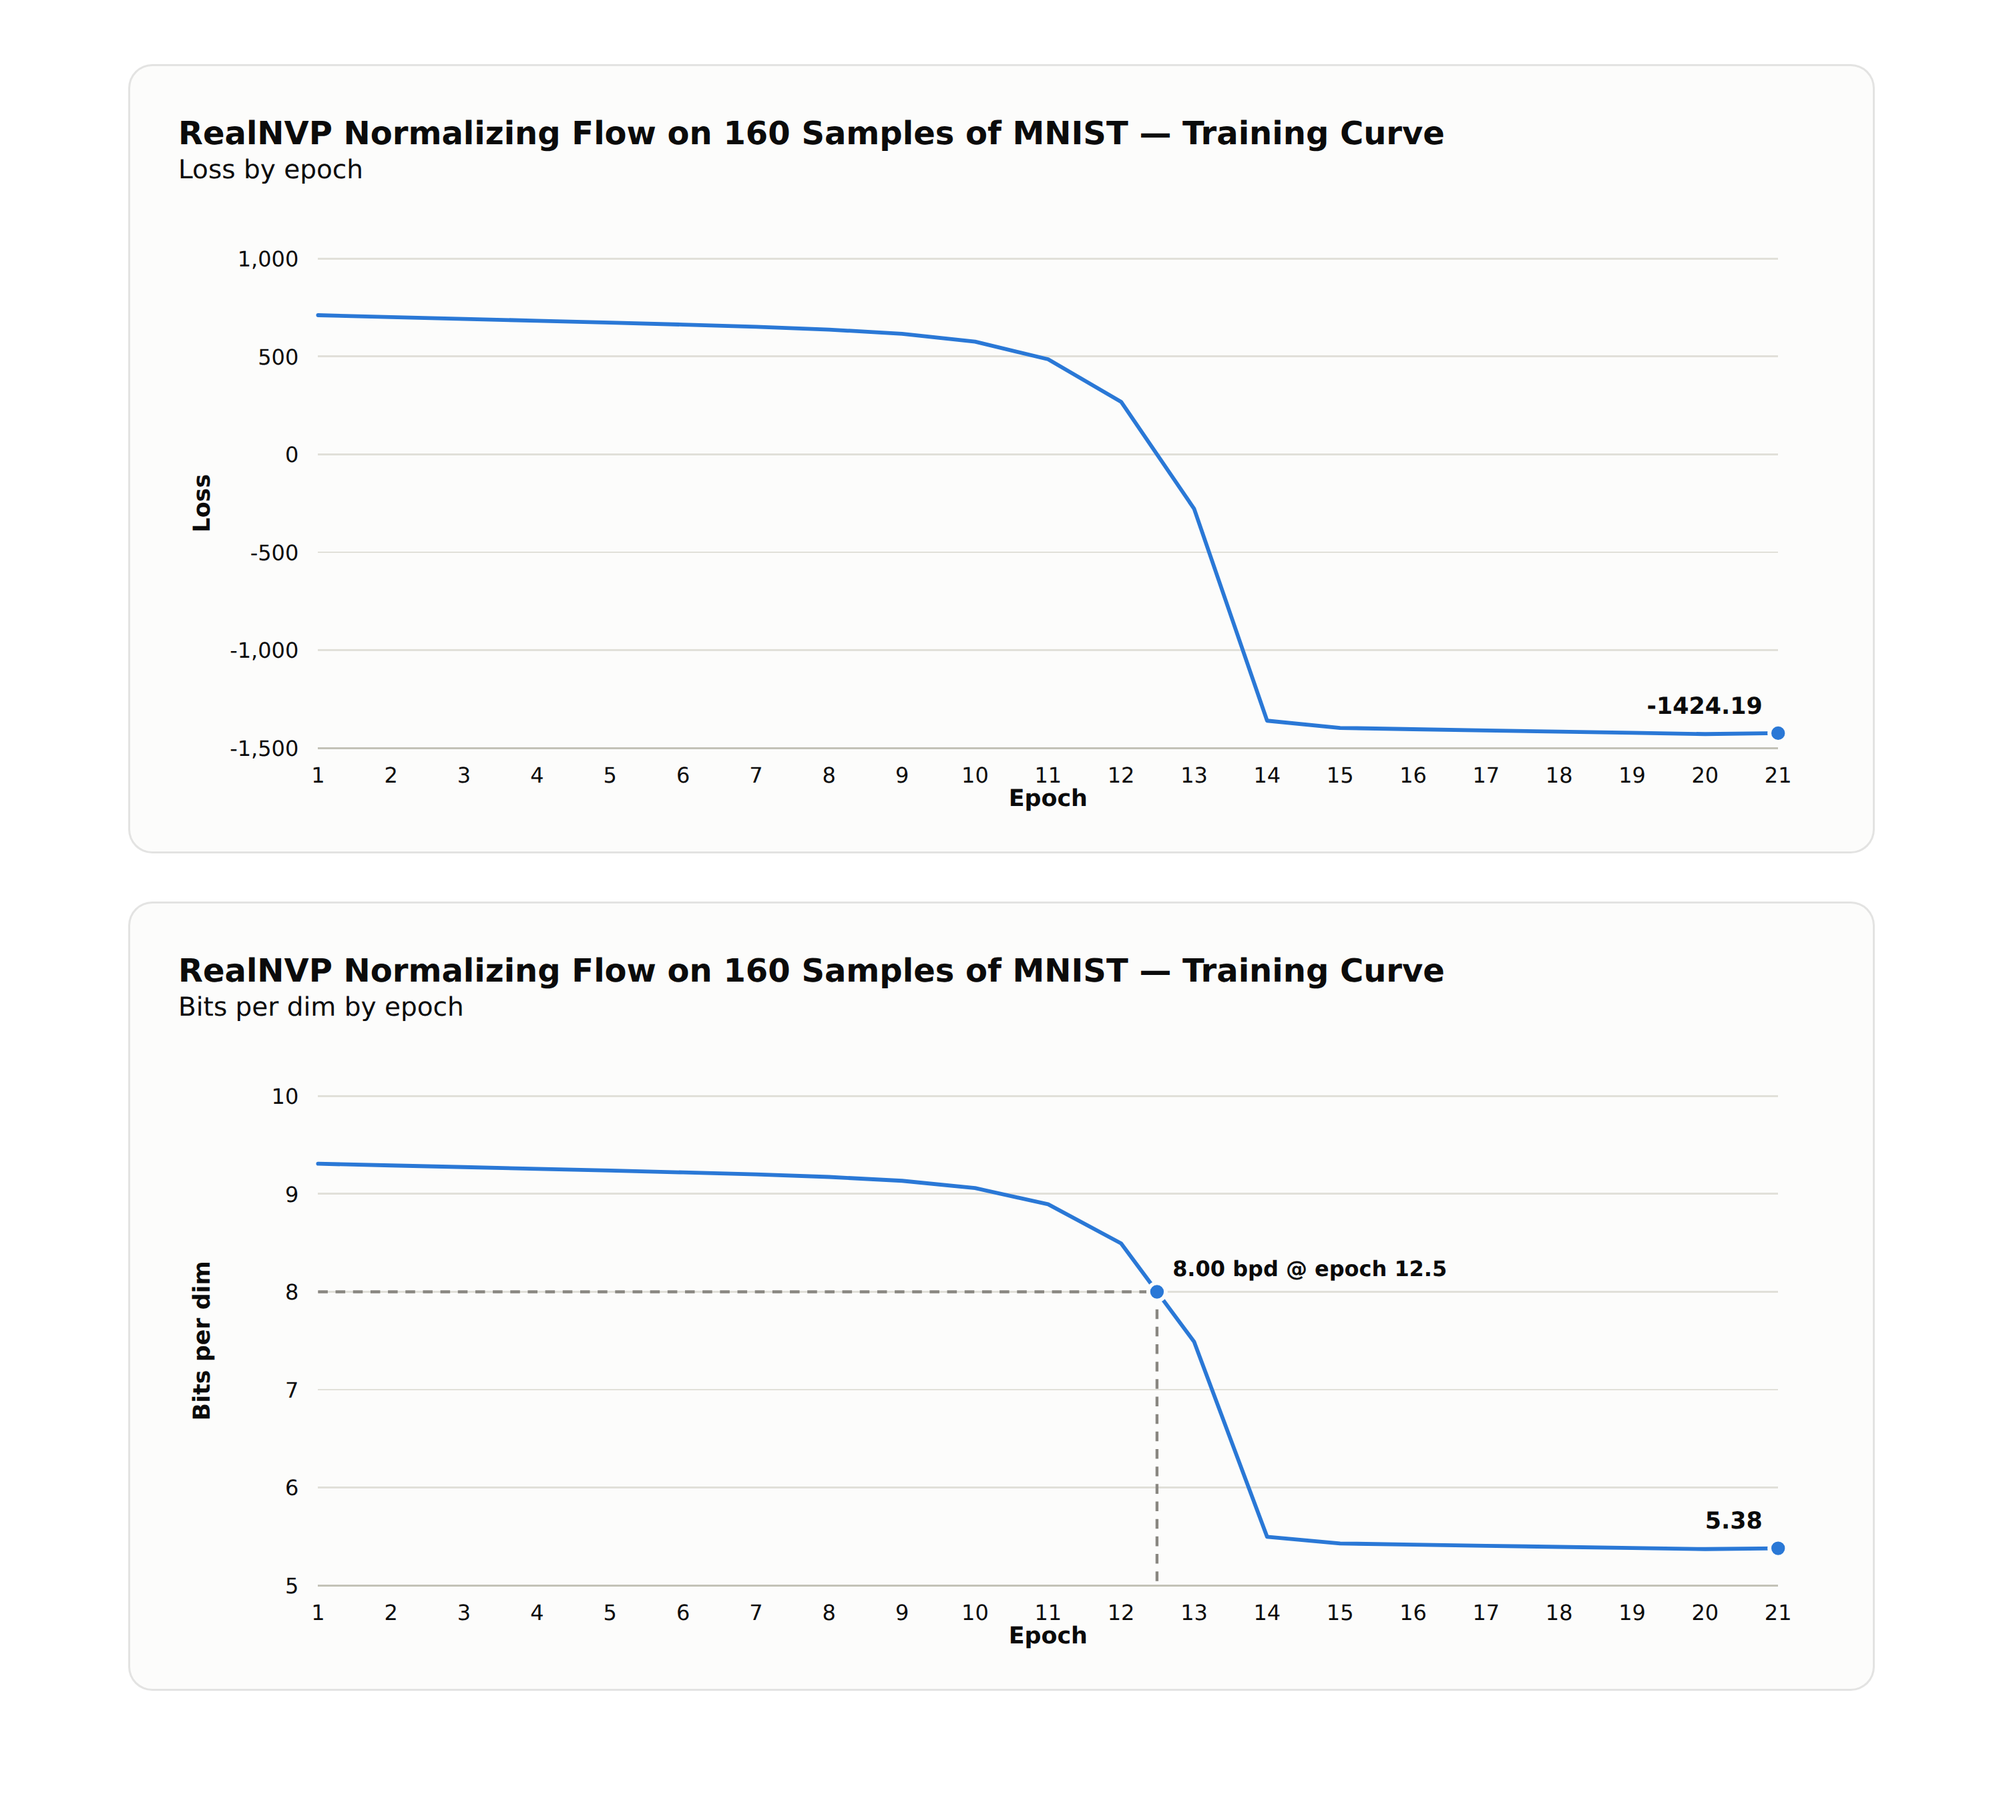
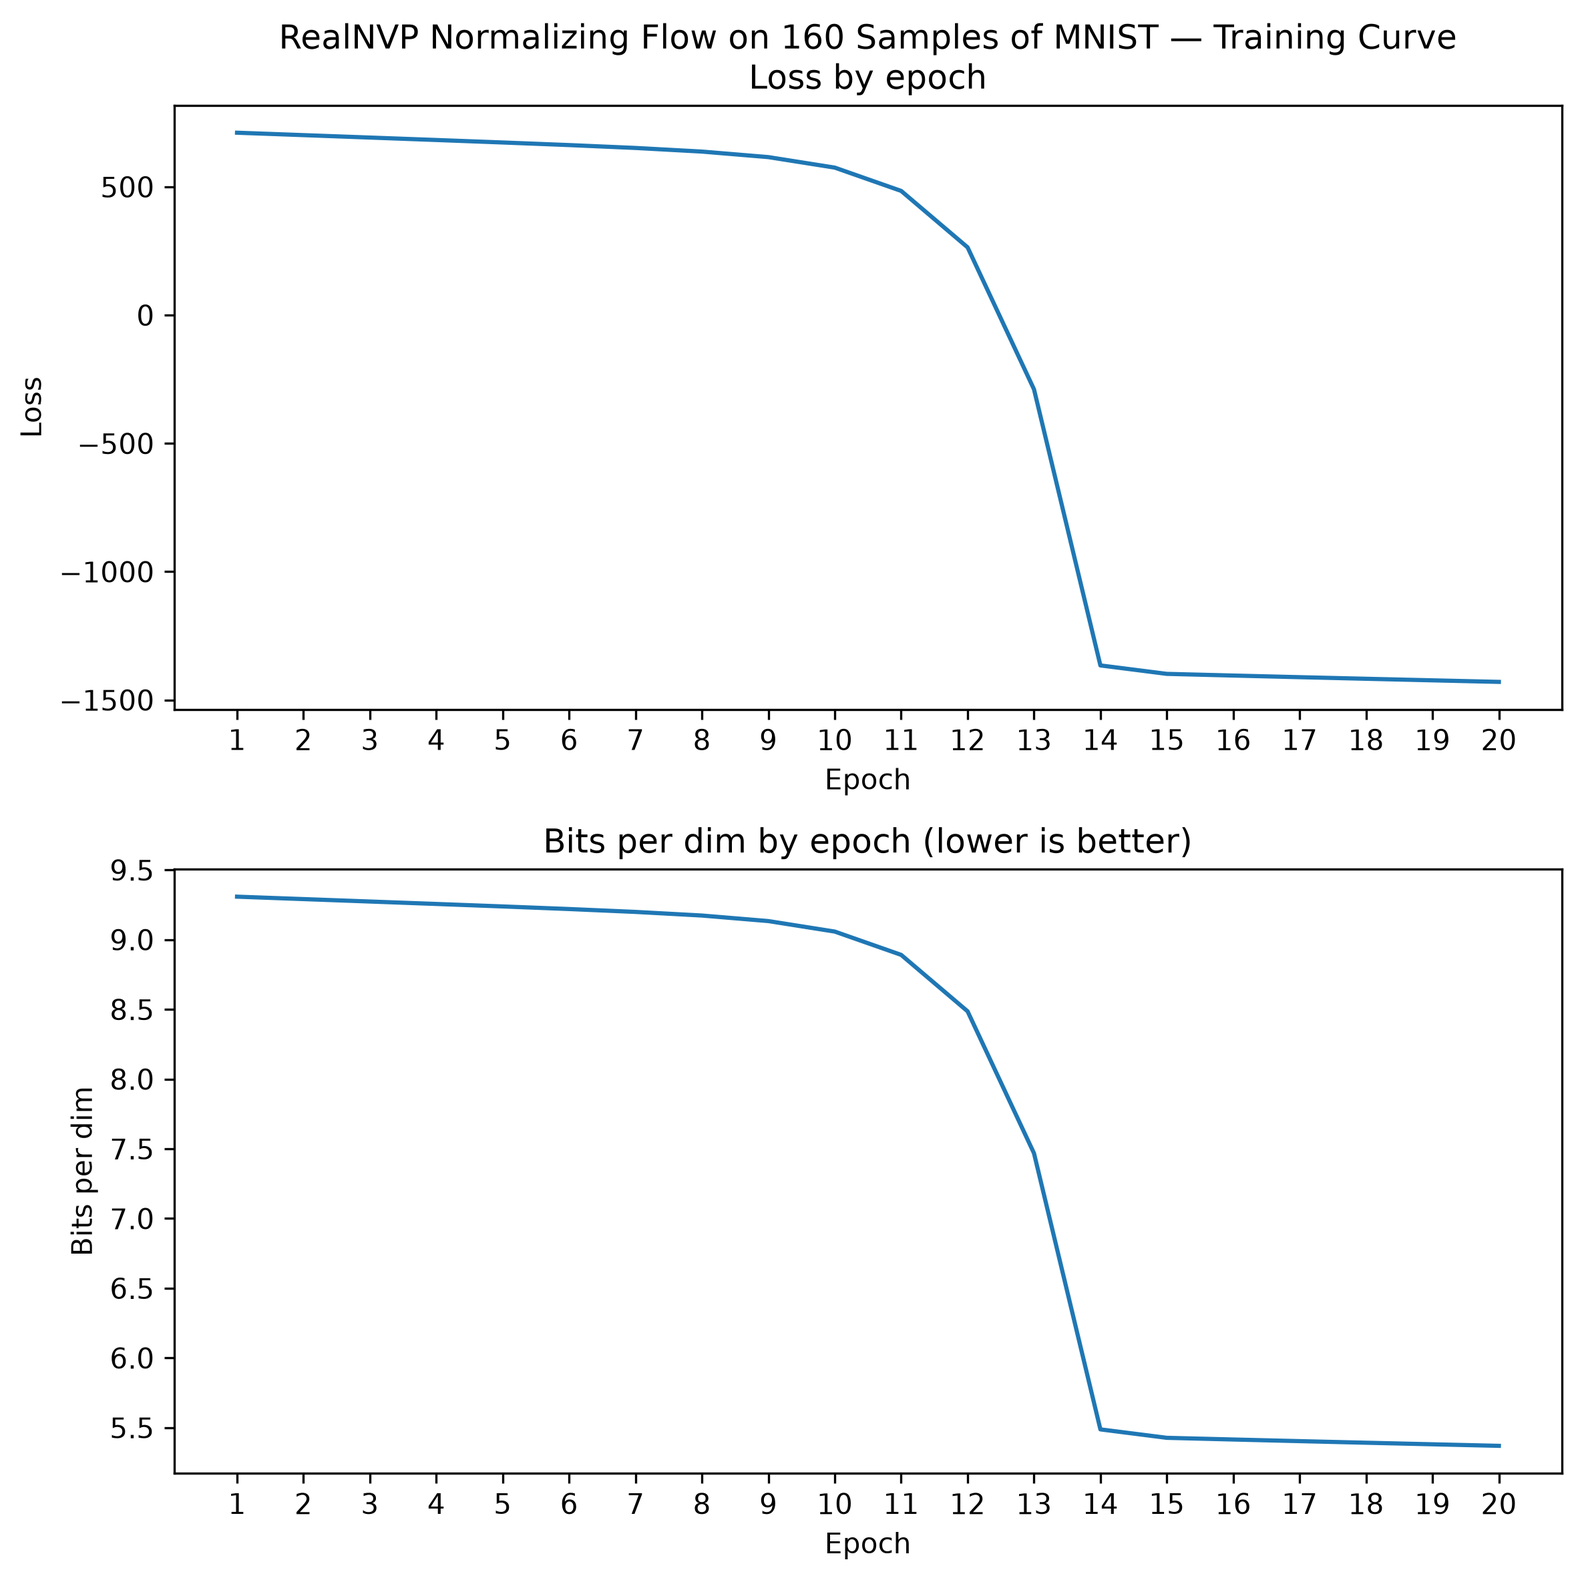
plot gen from runtime helper

diff --git a/tutorials/ast/norm_flow.py b/tutorials/ast/norm_flow.py
@@ -549,8 +549,21 @@ EXPECTED = {'functions': {'len1d': {'params': [('x', ('tensor', [('n', 'invarian
                                                  ('epochs', 'ℕ'),
                                                  ('lr', 'ℝ'),
                                                  ('len_train', 'ℝ')],
-                                      'return_type': None,
-                                      'statements': [('body_for_range',
+                                      'return_type': ('tensor',
+                                                      [('epochs',
+                                                        'invariant')]),
+                                      'statements': [('body_decl',
+                                                      'loss',
+                                                      ('tensor',
+                                                       [('epochs',
+                                                         'invariant')]),
+                                                      ('for_expr',
+                                                       'i',
+                                                       ('var', 'epochs'),
+                                                       ('mul',
+                                                        ('imaginary',),
+                                                        ('num', 0)))),
+                                                     ('body_for_range',
                                                       'epoch',
                                                       ('num', 0),
                                                       ('var', 'epochs'),
@@ -601,6 +614,11 @@ EXPECTED = {'functions': {'len1d': {'params': [('x', ('tensor', [('n', 'invarian
                                                         ('div',
                                                          ('var', 'total'),
                                                          ('var', 'len_train'))),
+                                                       ('loop_index_assign_nd',
+                                                        'loss',
+                                                        [('index_item',
+                                                          ('var', 'epoch'))],
+                                                        ('var', 'epoch_loss')),
                                                        ('loop_call',
                                                         'print',
                                                         [('var',
@@ -616,7 +634,7 @@ EXPECTED = {'functions': {'len1d': {'params': [('x', ('tensor', [('n', 'invarian
                                                        ('loop_call',
                                                         'print',
                                                         [('var', 'bits')])])],
-                                      'body': None},
+                                      'body': ('var', 'loss')},
                                      {'name': 'test',
                                       'params': [('Y',
                                                   ('tensor',
@@ -785,7 +803,7 @@ EXPECTED = {'functions': {'len1d': {'params': [('x', ('tensor', [('n', 'invarian
                  'k',
                  ('num', 28),
                  ('mul', ('var', 'k'), ('num', 0))))),
-              122),
+              125),
              ('decl',
               'test_X',
               ('tensor',
@@ -800,7 +818,7 @@ EXPECTED = {'functions': {'len1d': {'params': [('x', ('tensor', [('n', 'invarian
                  'k',
                  ('num', 28),
                  ('mul', ('var', 'k'), ('num', 0))))),
-              123),
+              126),
              ('stmt_tuple_unpack',
               [('len_train', 'ℝ'), ('len_test', 'ℝ')],
               ('expr_list', [('num', 160), ('num', 40)])),
@@ -893,7 +911,7 @@ EXPECTED = {'functions': {'len1d': {'params': [('x', ('tensor', [('n', 'invarian
                 ('var', 'b2_m'),
                 ('var', 'n'),
                 ('var', 'd')]),
-              135),
+              138),
              ('expr', ('call', 'print', [('var', 'DEVICE')]), 0),
              ('decl',
               'train_flat',
@@ -905,7 +923,7 @@ EXPECTED = {'functions': {'len1d': {'params': [('x', ('tensor', [('n', 'invarian
                 'j',
                 ('var', 'd'),
                 ('mul', ('var', 'j'), ('num', 0)))),
-              139),
+              142),
              ('for_loop_range',
               'i',
               ('num', 0),
@@ -921,7 +939,7 @@ EXPECTED = {'functions': {'len1d': {'params': [('x', ('tensor', [('n', 'invarian
                     ('num', 28),
                     ('num', 28)]),
                   ('var', 'd')]))],
-              140),
+              143),
              ('decl',
               'test_flat',
               ('tensor', [('len_test', 'invariant'), ('d', 'invariant')]),
@@ -932,7 +950,7 @@ EXPECTED = {'functions': {'len1d': {'params': [('x', ('tensor', [('n', 'invarian
                 'j',
                 ('var', 'd'),
                 ('mul', ('var', 'j'), ('num', 0)))),
-              143),
+              146),
              ('for_loop_range',
               'i',
               ('num', 0),
@@ -948,20 +966,22 @@ EXPECTED = {'functions': {'len1d': {'params': [('x', ('tensor', [('n', 'invarian
                     ('num', 28),
                     ('num', 28)]),
                   ('var', 'd')]))],
-              144),
-             ('decl', 'epochs', 'ℕ', ('num', 1), 148),
-             ('decl', 'lr', 'ℝ', ('num', 0.00015), 149),
+              147),
+             ('decl', 'epochs', 'ℕ', ('num', 1), 153),
+             ('decl', 'lr', 'ℝ', ('num', 0.00015), 154),
              ('decl',
               'X',
               ('tensor', [(160, 'invariant'), (784, 'invariant')]),
               ('var', 'train_flat'),
-              150),
+              155),
              ('decl',
               'Y',
               ('tensor', [(40, 'invariant'), (784, 'invariant')]),
               ('var', 'test_flat'),
-              151),
-             ('expr',
+              156),
+             ('decl',
+              'losses',
+              ('tensor', [('epochs', 'invariant')]),
               ('method_call',
                ('var', 'realnvp'),
                'train',
@@ -969,7 +989,8 @@ EXPECTED = {'functions': {'len1d': {'params': [('x', ('tensor', [('n', 'invarian
                 ('var', 'epochs'),
                 ('var', 'lr'),
                 ('var', 'len_train')]),
-              0),
+              157),
+             ('expr', ('call', 'print', [('var', 'losses')]), 0),
              ('decl',
               'test_loss',
               'ℝ',
@@ -977,7 +998,7 @@ EXPECTED = {'functions': {'len1d': {'params': [('x', ('tensor', [('n', 'invarian
                ('var', 'realnvp'),
                'test',
                [('var', 'Y'), ('var', 'len_test')]),
-              155),
+              164),
              ('expr', ('call', 'print', [('var', 'test_loss')]), 0),
              ('decl',
               'bits',
@@ -986,18 +1007,18 @@ EXPECTED = {'functions': {'len1d': {'params': [('x', ('tensor', [('n', 'invarian
                ('var', 'realnvp'),
                'evaluate',
                [('var', 'test_loss'), ('var', 'len_test')]),
-              157),
+              166),
              ('expr', ('call', 'print', [('var', 'bits')]), 0),
              ('decl',
               'gen_flat',
               ('tensor', [('d', 'invariant')]),
               ('method_call', ('var', 'realnvp'), 'sample', []),
-              161),
+              170),
              ('decl',
               'gen_img',
               ('tensor', [(28, 'invariant'), (28, 'invariant')]),
               ('call',
                'unflatten',
                [('var', 'gen_flat'), ('num', 28), ('num', 28)]),
-              162),
+              171),
              ('expr', ('call', 'print', [('var', 'gen_img')]), 0)]}

diff --git a/tutorials/torch_code/norm_flow.py b/tutorials/torch_code/norm_flow.py
@@ -127,6 +127,7 @@ class RealNVP(nn.Module):
         X = torch.as_tensor(X, device=DEVICE).float()
         lr = torch.as_tensor(lr, device=DEVICE).float()
         len_train = torch.as_tensor(len_train, device=DEVICE).float()
+        loss = torch.stack([(i * 0) for _fi_i in range(int(epochs)) for i in [torch.tensor(float(_fi_i), device=DEVICE)]])
         for epoch in range(int(0), int(epochs)):
             for i in range(int(0), int(len_train)):
                 L = self.loss(X[int(i)])
@@ -136,9 +137,11 @@ class RealNVP(nn.Module):
             for i in range(int(0), int(len_train)):
                 total = total + self.loss(X[int(i)])
             epoch_loss = (total / len_train)
+            loss[int(epoch)] = epoch_loss
             print(epoch_loss)
             bits = self.evaluate(epoch_loss, len_train)
             print(bits)
+        return loss
 
     def test(self, Y, len_test):
         this = self
@@ -208,7 +211,8 @@ epochs = 1
 lr = 0.00015
 X = train_flat
 Y = test_flat
-print(realnvp.train(X, epochs, lr, len_train))
+losses = realnvp.train(X, epochs, lr, len_train)
+print(print(losses))
 test_loss = realnvp.test(Y, len_test)
 print(print(test_loss))
 bits = realnvp.evaluate(test_loss, len_test)

diff --git a/docs/tutorials/norm_flow.rst b/docs/tutorials/norm_flow.rst
@@ -415,8 +415,8 @@ Training a RealNVP Normalizing Flow on the MNIST Dataset
 This is the complete code for training a model on the MNIST dataset using the RealNVP Normalizing Flow.
 
 .. note::
-   ``create_dataset`` is not a built-in Physika function. To use it,
-   add the following helper to ``physika/runtime.py``:
+   ``create_dataset`` and ``plot_losses_bits_per_dim`` are not built-in Physika functions. To use them,
+   add the following helpers to ``physika/runtime.py``:
 
     .. code-block:: python
 
@@ -464,6 +464,31 @@ This is the complete code for training a model on the MNIST dataset using the Re
             train_data = [X_train, y_train]
             test_data = [X_test, y_test]
             return [train_data, test_data]
+
+        def plot_losses_bits_per_dim(losses):
+            import matplotlib.pyplot as plt
+            import numpy as np
+        
+            bits_per_dim = losses / (784 * np.log(2)) + 8
+            epochs = range(1, len(losses) + 1)
+        
+            fig, (ax1, ax2) = plt.subplots(2, 1, figsize=(8, 8))
+        
+            ax1.plot(epochs, losses.cpu().detach().numpy())
+            ax1.set_xlabel("Epoch")
+            ax1.set_ylabel("Loss")
+            ax1.set_title("RealNVP Normalizing Flow on 160 Samples of MNIST — Training Curve\nLoss by epoch")
+            ax1.set_xticks(epochs)
+        
+            ax2.plot(epochs, bits_per_dim.cpu().detach().numpy())
+            ax2.set_xlabel("Epoch")
+            ax2.set_ylabel("Bits per dim")
+            ax2.set_title("Bits per dim by epoch (lower is better)")
+            ax2.set_xticks(epochs)
+        
+            plt.tight_layout()
+            plt.savefig("realnvp_train_curve.png", dpi=300, bbox_inches="tight")
+            plt.show()
 
 Full Code
 ---------------------------------------------------------------------------------
@@ -552,7 +577,8 @@ Full Code
             return this.inverse(z)
         def loss(x: ℝ[784]): ℝ:
             return -this(x)
-        def train(X: ℝ[160, 784], epochs: ℕ, lr: ℝ, len_train: ℝ):
+        def train(X: ℝ[160, 784], epochs: ℕ, lr: ℝ, len_train: ℝ): ℝ[epochs]:
+            loss: ℝ[epochs] = for i:ℕ(epochs) -> i*0
             for epoch: ℕ(epochs):
                 for i: ℕ(len_train):
                     L = this.loss(X[i])
@@ -562,9 +588,11 @@ Full Code
                 for i:ℕ(len_train):
                     total += this.loss(X[i])
                 epoch_loss = total/len_train
+                loss[epoch] = epoch_loss
                 print(epoch_loss)
                 bits = this.evaluate(epoch_loss, len_train)
                 print(bits)
+            return loss
         def test(Y: ℝ[40, 784], len_test: ℝ): ℝ:
             total: ℝ = 0
             for i:ℕ(len_test):
@@ -617,7 +645,8 @@ Full Code
     lr: ℝ = 0.00015
     X: ℝ[160,784] = train_flat
     Y: ℝ[40,784] = test_flat
-    realnvp.train(X, epochs, lr, len_train)
+    losses: ℝ[epochs] = realnvp.train(X, epochs, lr, len_train)
+    plot_losses_bits_per_dim(losses)
 
     # Test
     test_loss: ℝ = realnvp.test(Y, len_test)
@@ -634,7 +663,7 @@ Full Code
 Training plots
 ---------------
 
-After running the code below, you should see the training loss decrease over epochs, indicating that the model is learning to better fit the data distribution.
+After running the code below (~30 mins), you should see the training loss decrease over epochs, indicating that the model is learning to better fit the data distribution.
 
 .. figure:: /_static/tutorial_files/norm_flow/realnvp_train_curve.png
    :alt:
